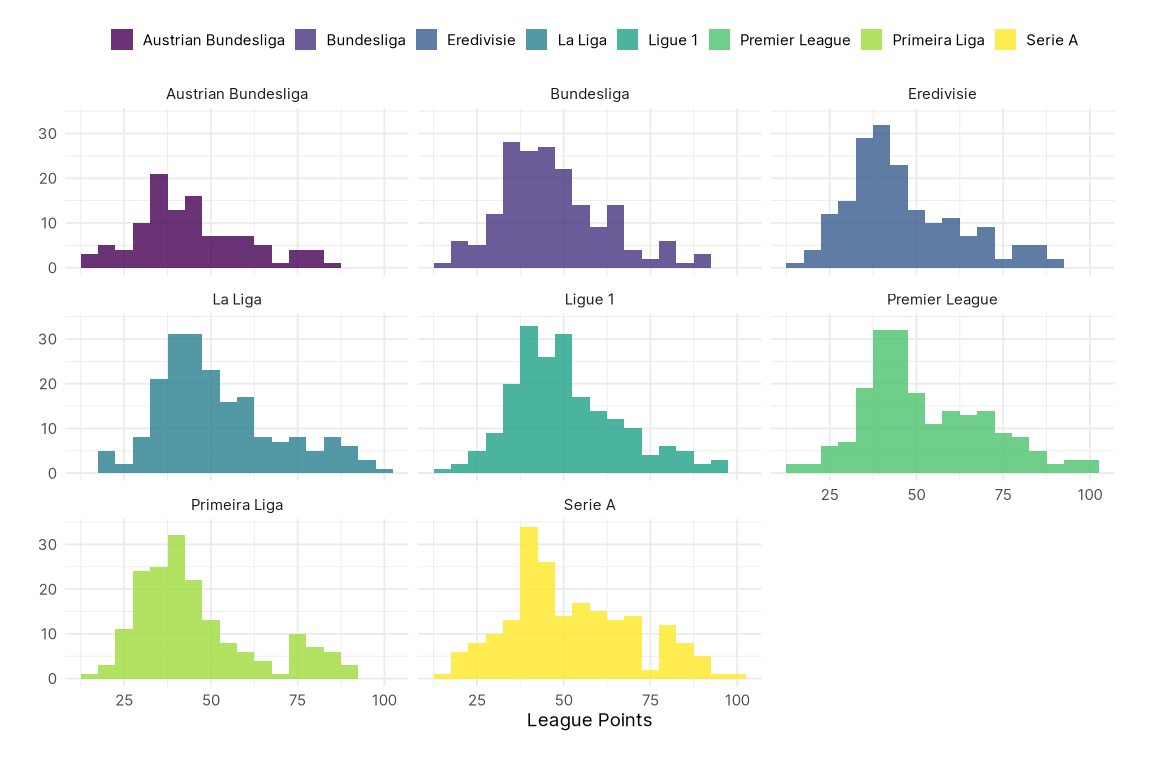
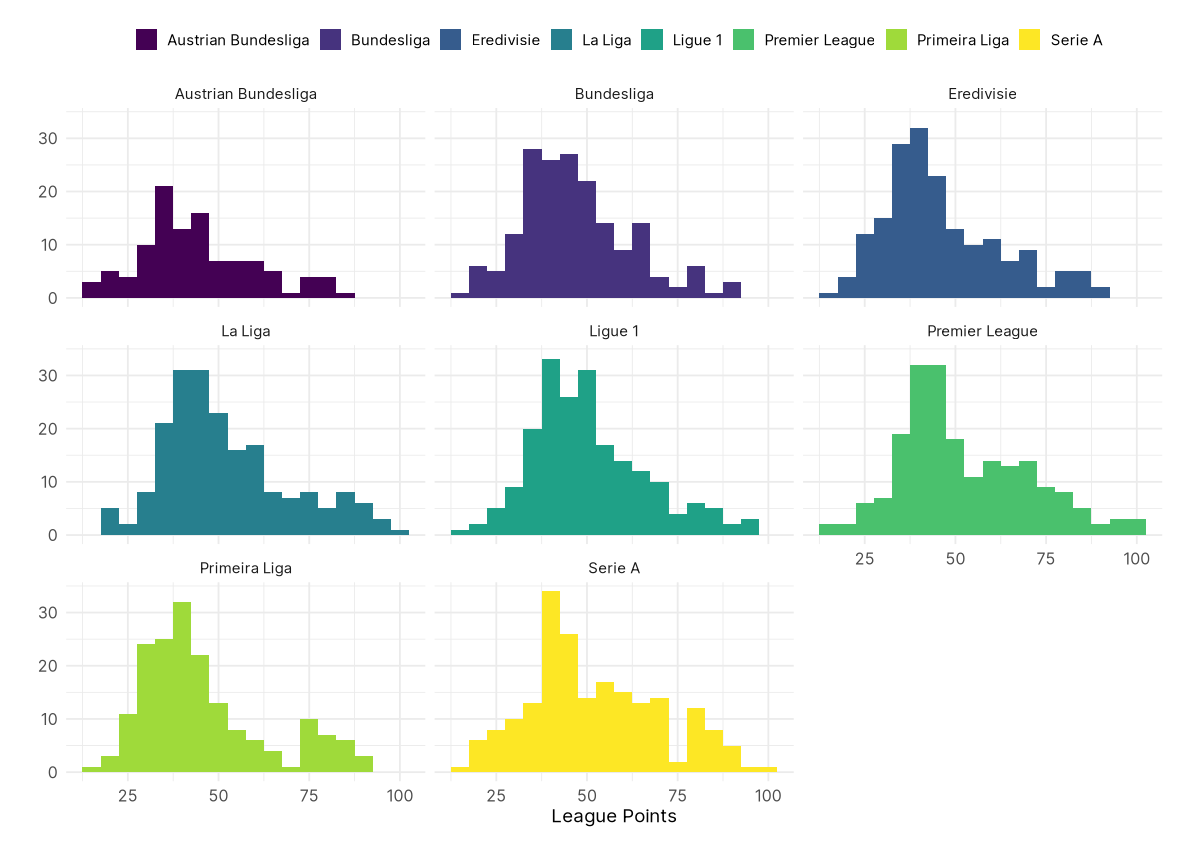
Fix axis text
Some x-axis text is overlapping, so rotating it to fit better

diff --git a/output/01-exploratory_data_analysis.md b/output/01-exploratory_data_analysis.md
@@ -65,7 +65,7 @@ club_resources %>%
 ``` r
 club_resources %>%
   ggplot(aes(pts, fill = league)) +
-  geom_histogram(alpha = 0.8, binwidth = 5) +
+  geom_histogram(binwidth = 5) +
   scale_fill_viridis_d(guide = guide_legend(nrow = 1)) +
   facet_wrap(~ league) +
   labs(x = "League Points", y = NULL)
@@ -307,7 +307,8 @@ club_resources %>%
       )
     ) +
   facet_wrap(~ league, scales = "free", nrow = 2) +
-  labs(x = NULL, y = NULL)
+  labs(x = NULL, y = NULL) +
+  theme(axis.text.x = element_text(angle = 45, vjust = 1, hjust=1))
 ```
 
 ![](01-exploratory_data_analysis_files/figure-gfm/values-over-time-1.png)
@@ -351,7 +352,8 @@ club_resources %>%
     labels = label_number(scale_cut = cut_short_scale(), prefix = "€")
     ) +
   facet_wrap(~ league, scales = "free", nrow = 2) +
-  labs(x = "Squad Market Value", y = "League Points")
+  labs(x = "Squad Market Value", y = "League Points") +
+  theme(axis.text.x = element_text(angle = 45, vjust = 1, hjust=1))
 ```
 
 ![](01-exploratory_data_analysis_files/figure-gfm/pts-and-values-2.png)
@@ -368,9 +370,7 @@ points are distributed changes, and the role that money plays changes.
 club_resources %>%
   ggplot(aes(value, pts, colour = season)) +
   geom_point(alpha = 0.6, size = 1.5) +
-  geom_smooth(
-    method = lm, 
-    se = FALSE, size = 1.5, alpha = 0.6) +
+  geom_smooth(method = lm, se = FALSE, size = 1.5, alpha = 0.6) +
   scale_colour_viridis_d(guide = guide_legend(nrow = 1)) +
   scale_x_continuous(
     labels = label_number(scale_cut = cut_short_scale(), prefix = "€")
@@ -384,15 +384,14 @@ club_resources %>%
 club_resources %>%
   ggplot(aes(value, pts, colour = season)) +
   geom_point(alpha = 0.4, size = 1.5, colour = "gray30") +
-  geom_smooth(
-    method = lm, formula = y ~ splines::bs(x),
-    se = FALSE, size = 1, alpha = 0.6) +
+  geom_smooth(method = lm, se = FALSE, size = 1, alpha = 0.6) +
   scale_colour_viridis_d(guide = guide_legend(nrow = 1)) +
   scale_x_continuous(
     labels = label_number(scale_cut = cut_short_scale(), prefix = "€")
     ) +
   facet_wrap(~ league, scales = "free", nrow = 2) +
-  labs(x = "Squad Market Value", y = "League Points")
+  labs(x = "Squad Market Value", y = "League Points") +
+  theme(axis.text.x = element_text(angle = 45, vjust = 1, hjust=1))
 ```
 
 ![](01-exploratory_data_analysis_files/figure-gfm/pts-and-values-by-season-2.png)
@@ -409,13 +408,15 @@ club_resources %>%
   geom_point(alpha = 0.4, size = 1.5, colour = "gray30") +
   geom_smooth(
     method = lm, formula = y ~ splines::bs(x),
-    se = FALSE, size = 1, alpha = 0.6) +
+    se = FALSE, size = 1, alpha = 0.6
+    ) +
   scale_colour_viridis_d(guide = guide_legend(nrow = 1)) +
   scale_x_continuous(
     labels = label_number(scale_cut = cut_short_scale(), prefix = "€")
     ) +
   facet_wrap(~ league, scales = "free", nrow = 2) +
-  labs(x = "Squad Market Value", y = "League Points")
+  labs(x = "Squad Market Value", y = "League Points") +
+  theme(axis.text.x = element_text(angle = 45, vjust = 1, hjust=1))
 ```
 
 ![](01-exploratory_data_analysis_files/figure-gfm/weird-splines-1.png)
